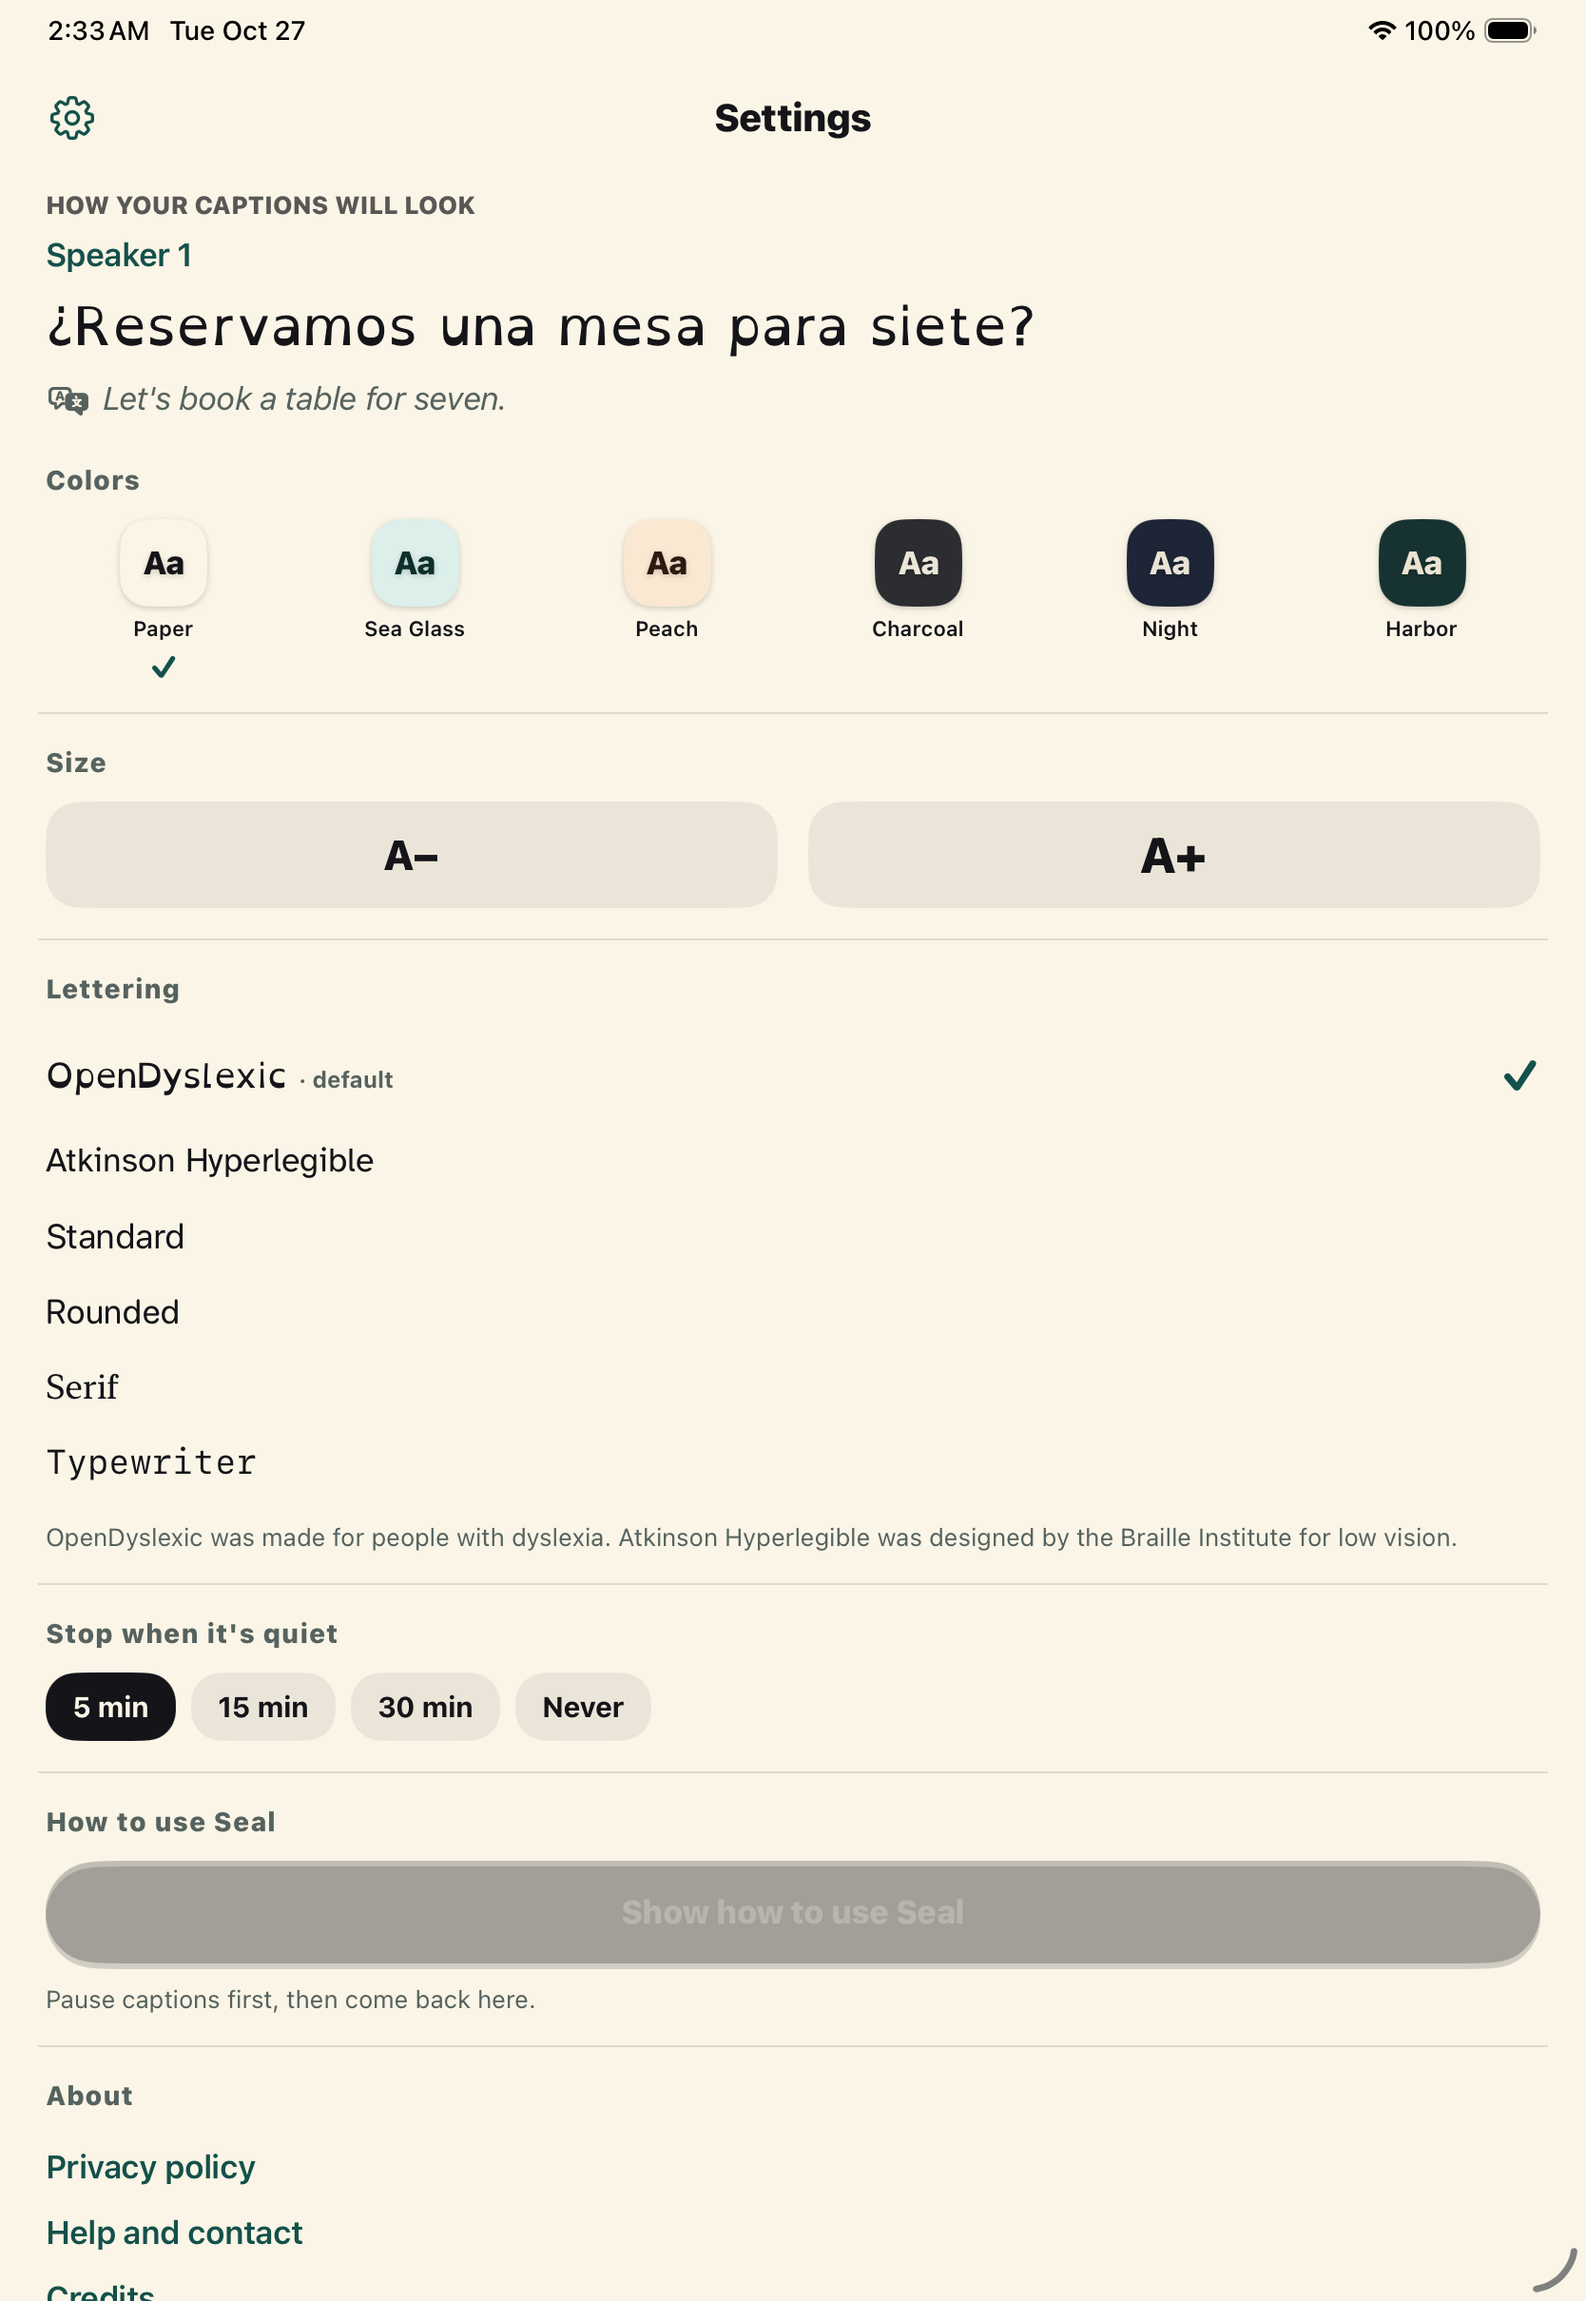
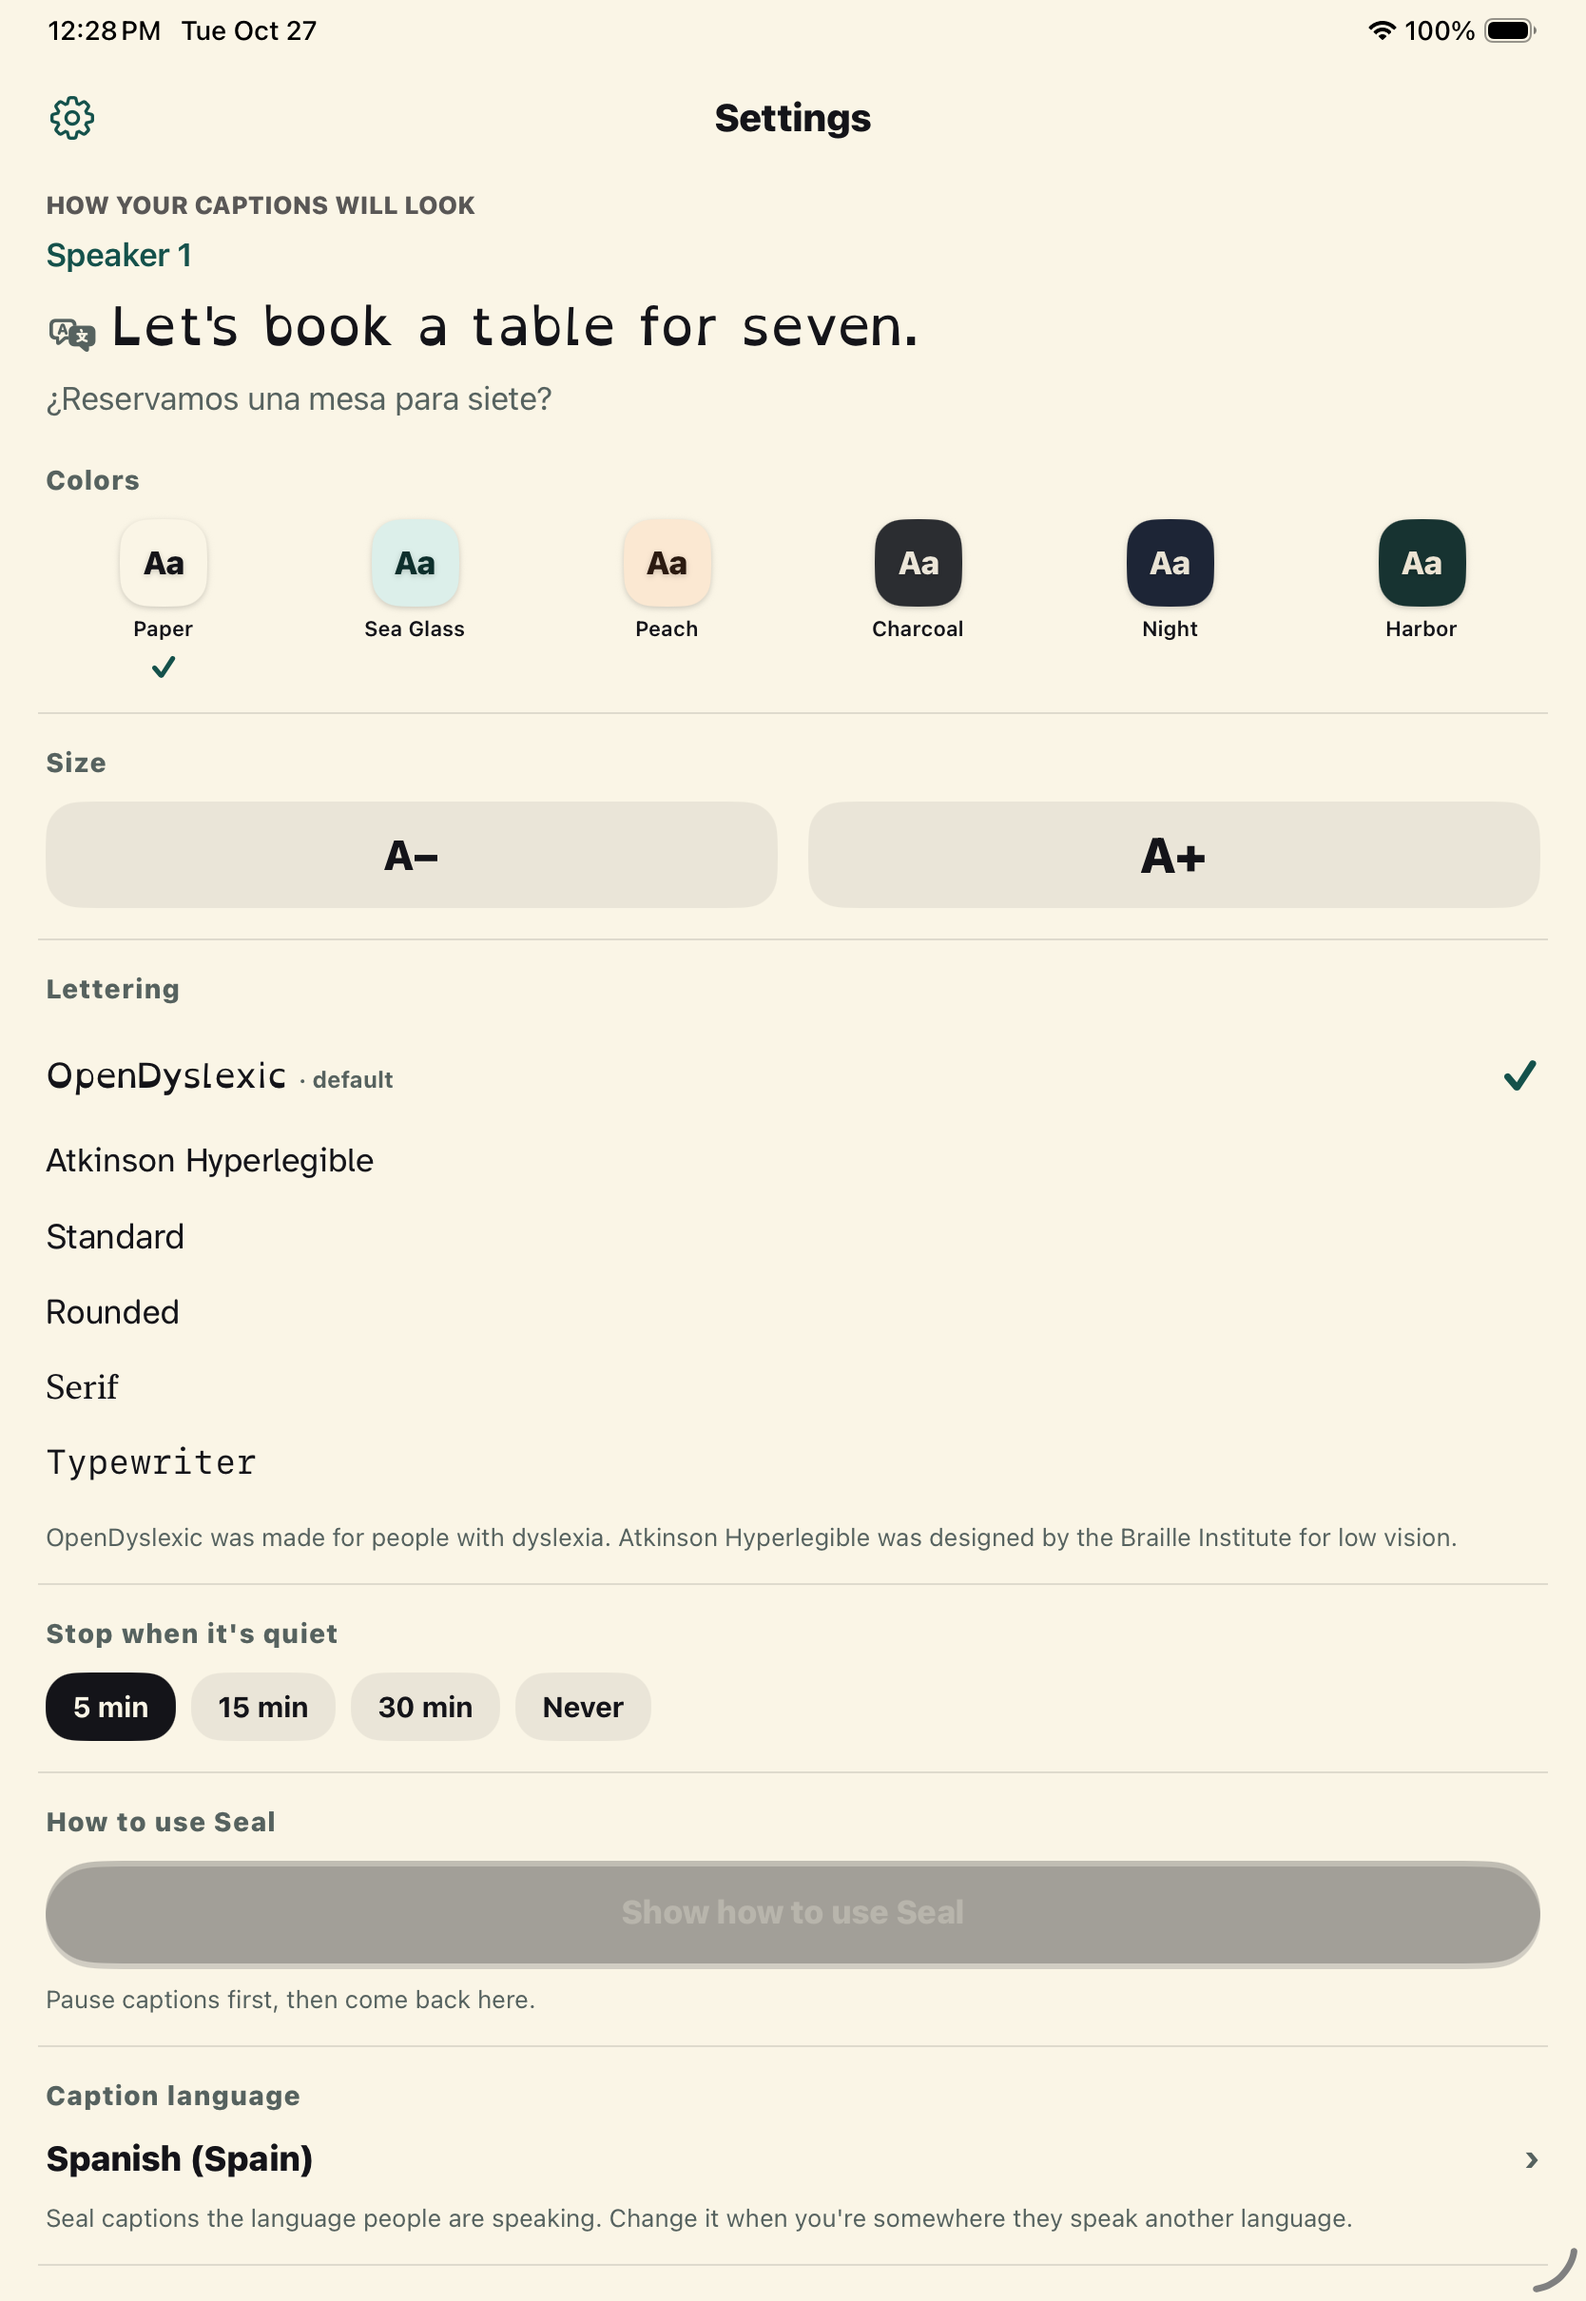
Settings mock-up: owner's #171 decisions, and the build fix (#37, #53)
- Caption language and Translate captions now sit at the bottom, just above About.
- The translated line is on top at caption size behind the translate mark; what was
  said stays underneath, smaller and muted.
- CI: a local named sameLanguage shadowed the sameLanguage(_:_:) it called, so
  CaptionCore didn't compile; "Into" added to the string catalog and the decorative
  chevrons marked verbatim (LocalizationCatalogTests).
- Screenshots retaken on the iPad Pro 11-inch simulator; Spanish captions into English
  throughout, and the dark shot uses the Night theme.

Claude-Session: https://claude.ai/code/session_01K7SS1b2tHePda6ZPuFrBna

diff --git a/Apps/Spike/Sources/SettingsPage.swift b/Apps/Spike/Sources/SettingsPage.swift
@@ -17,7 +17,7 @@ struct SettingsPage: View {
     let onGear: () -> Void
     /// Opens one of Settings' own pages.
     let onOpen: (AppScreen) -> Void
-    /// #37 / #53: caption language and translation, at the bottom of Settings (owner, 2026-10-27).
+    /// #37 / #53: caption language and translation, at the bottom of Settings just above About (owner, PR #171 decisions).
     var language: LanguageSettingsState = .current()
     var onChooseCaptionLanguage: (() -> Void)?
     var onTranslation: ((Bool) -> Void)?
@@ -44,11 +44,11 @@ struct SettingsPage: View {
                         section("Stop when it's quiet") { idleStopRow }.id("idleStop")
                         if beta.isOn { testVersionSection.id("betaFeedback") }
                         if showsTourReplay { section("How to use Seal") { tourRow }.id("tour") }
-                        section("About") { aboutRows }.id("about")
                         section("Caption language", note: String(localized: "Seal captions the language people are speaking. Change it when you're somewhere they speak another language.")) { captionLanguageRow }
                             .id("language")
                         section("Translate captions", note: translationNote) { translationRows }
                             .id("translation")
+                        section("About") { aboutRows }.id("about")
                     }
                     .padding(.horizontal, 20)
                     .padding(.bottom, 30)
@@ -122,10 +122,13 @@ struct SettingsPage: View {
                 Text(String(localized: "Speaker 1"))
                     .font(.headline)
                     .foregroundStyle(palette[0])
-                Text(LanguageSettingsState.sample(language.captions) ?? String(localized: "Let's book a table for seven."))
-                    .font(style.font(for: SystemTextSizeCategory(dynamicTypeSize)))
+                let original = LanguageSettingsState.sample(language.captions) ?? String(localized: "Let's book a table for seven.")
                 if language.translationOn, let target = language.target, let line = LanguageSettingsState.sample(target) {
                     translatedLine(line)
+                    originalUnderTranslation(original)
+                } else {
+                    Text(original)
+                        .font(style.font(for: SystemTextSizeCategory(dynamicTypeSize)))
                 }
             }
             .accessibilityElement(children: .combine)
@@ -137,17 +140,23 @@ struct SettingsPage: View {
         .padding(.bottom, 6)
     }
 
-    /// #53: a translated line sits under its caption, smaller, slanted and muted, behind a translate mark, so nobody
-    /// takes it for what was said. The original is never hidden.
+    /// #53 (owner, PR #171 decisions): the translation is the line that gets read, so it sits on top at caption size,
+    /// behind a translate mark so nobody takes it for what was said. The original stays, smaller, underneath.
     private func translatedLine(_ text: String) -> some View {
         HStack(alignment: .firstTextBaseline, spacing: 6) {
-            Image(systemName: "translate").font(scaled(13, .bold))
-            Text(text).font(scaled(17).italic())
+            Image(systemName: "translate").font(scaled(15, .bold)).foregroundStyle(muted)
+            Text(text).font(style.font(for: SystemTextSizeCategory(dynamicTypeSize)))
         }
-        .foregroundStyle(muted)
-        .padding(.top, 2)
         .accessibilityElement(children: .combine)
         .accessibilityLabel(String(localized: "Translated: ") + text)
+    }
+
+    private func originalUnderTranslation(_ text: String) -> some View {
+        Text(text)
+            .font(scaled(17))
+            .foregroundStyle(muted)
+            .padding(.top, 2)
+            .accessibilityLabel(String(localized: "Said: ") + text)
     }
 
     private var captionLanguageRow: some View {
@@ -159,7 +168,7 @@ struct SettingsPage: View {
                         .font(scaled(12, .bold)).foregroundStyle(muted)
                 }
                 Spacer()
-                Text("›").font(scaled(20, .heavy)).foregroundStyle(muted)
+                Text(verbatim: "›").font(scaled(20, .heavy)).foregroundStyle(muted)
             }
             .contentShape(Rectangle())
         }
@@ -190,7 +199,7 @@ struct SettingsPage: View {
                     Text(language.target.map(LanguageSettingsState.name) ?? String(localized: "Choose a language"))
                         .font(scaled(18, .heavy))
                     Spacer()
-                    Text("›").font(scaled(20, .heavy)).foregroundStyle(muted)
+                    Text(verbatim: "›").font(scaled(20, .heavy)).foregroundStyle(muted)
                 }
                 .contentShape(Rectangle())
             }
@@ -206,7 +215,7 @@ struct SettingsPage: View {
     }
 
     private var translationNote: String {
-        String(localized: "Each caption gets a translated line under it. What was said always stays. The first time, the language pack downloads once (about 200 MB); after that it works with no internet.")
+        String(localized: "Each caption shows its translation on top, with what was said in smaller text underneath. What was said always stays. The first time, the language pack downloads once (about 200 MB); after that it works with no internet.")
     }
 
     private func section<C: View>(_ title: LocalizedStringKey, first: Bool = false, note: String? = nil, @ViewBuilder _ content: () -> C) -> some View {

diff --git a/Packages/CaptionCore/Sources/CaptionCore/CaptionLanguage.swift b/Packages/CaptionCore/Sources/CaptionCore/CaptionLanguage.swift
@@ -21,9 +21,9 @@ public enum CaptionLanguage {
             if let exact = supported.first(where: { sameLanguage($0, wanted) && $0.region == wanted.region && wanted.region != nil }) {
                 return .use(exact)
             }
-            let sameLanguage = supported.filter { sameLanguage($0, wanted) }
-            if sameLanguage.count == 1 { return .use(sameLanguage[0]) }
-            if sameLanguage.count > 1 { return .ask(suggested: sameLanguage) }
+            let matches = supported.filter { sameLanguage($0, wanted) }
+            if matches.count == 1 { return .use(matches[0]) }
+            if matches.count > 1 { return .ask(suggested: matches) }
         }
         return .ask(suggested: [])
     }
